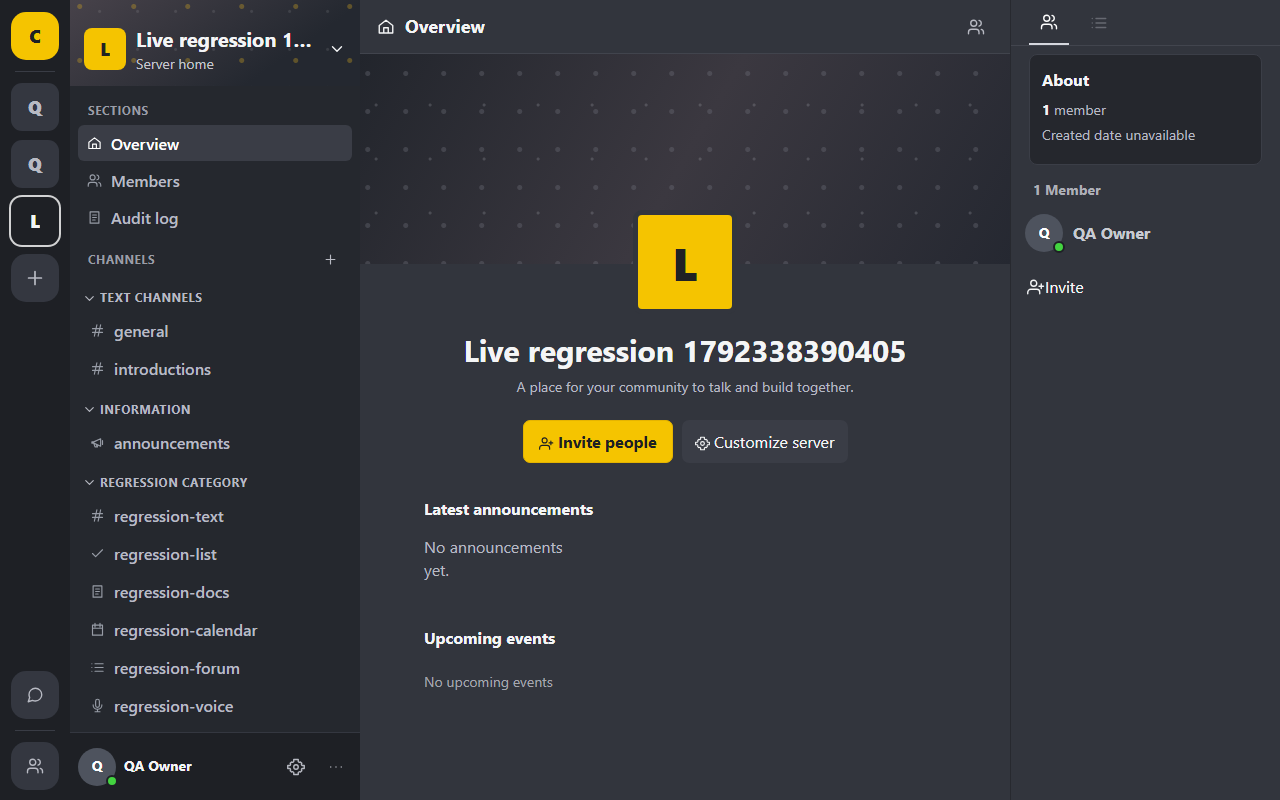
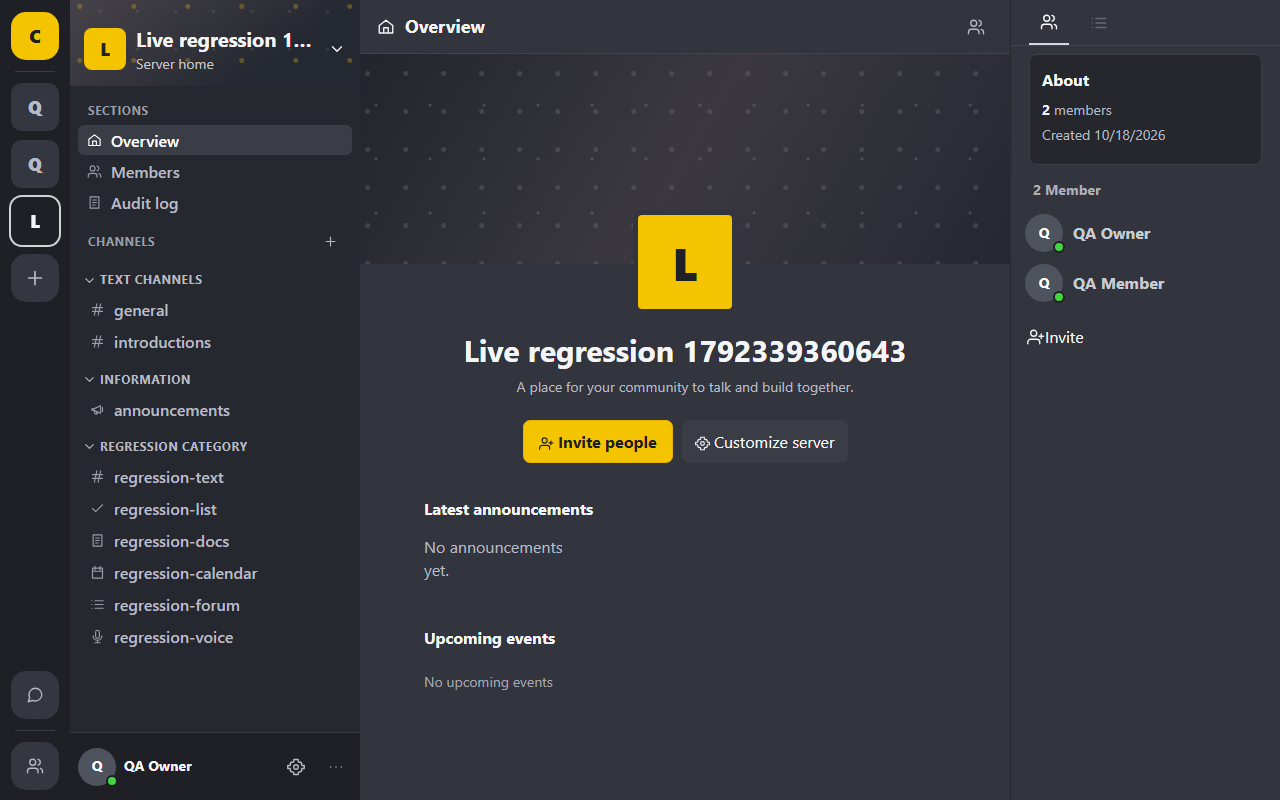
Refine live chat parity and regression checks

diff --git a/static/guilded.js b/static/guilded.js
@@ -214,6 +214,17 @@
         ? `<span class="role-emote" title="${escapeHtml(role.name)}">${escapeHtml(role.emoji)}</span>`
         : "";
   }
+  function memberStatus(member) {
+    const emoji = member?.custom_status_emoji || member?.status_emoji || "";
+    const text = member?.custom_status || "";
+    if (!emoji && !text) return "";
+    return `<small>${emoji ? `<span class="custom-status-emoji">${escapeHtml(emoji)}</span>` : ""}${text ? escapeHtml(text) : ""}</small>`;
+  }
+  function botBadge(member) {
+    return member?.is_bot === true || member?.isBot === true
+      ? '<span class="bot-badge">BOT</span>'
+      : "";
+  }
   function roleColor(role) {
     return /^#[0-9a-fA-F]{6}$/.test(role?.color || "") ? role.color : "#c8cbd2";
   }
@@ -423,7 +434,9 @@
     const groups = new Map();
     for (const member of members) {
       const role = topRole(member),
-        name = member.status === "invisible" ? "Offline" : role?.id || "Member";
+        name = ["invisible", "offline"].includes(member.status)
+          ? "Offline"
+          : role?.id || "Member";
       if (!groups.has(name)) groups.set(name, []);
       groups.get(name).push(member);
     }
@@ -437,7 +450,8 @@
           `<section class="member-group"><h2>${people.length} ${escapeHtml(roles.find((r) => r.id === id)?.name || id)}</h2>${people
             .map((member) => {
               const role = topRole(member);
-              return `<button class="member ${member.status === "invisible" ? "offline" : ""}" data-action="member" data-id="${member.id}"><span class="avatar-wrap">${avatar(member)}<i class="status-dot ${escapeHtml(member.status || "online")}"></i></span><span class="who"><strong><span style="${roleTextStyle(role)}">${escapeHtml(member.name || "Member")}</span> ${roleIcon(role)}</strong><small>${escapeHtml(member.custom_status || (member.status === "online" ? "" : member.status || ""))}</small></span></button>`;
+              const offline = ["invisible", "offline"].includes(member.status);
+              return `<button class="member ${offline ? "offline" : ""}" data-action="member" data-id="${member.id}"><span class="avatar-wrap">${avatar(member)}<i class="status-dot ${escapeHtml(member.status || "online")}"></i></span><span class="who"><strong><span style="${roleTextStyle(role)}">${escapeHtml(member.name || "Member")}</span>${roleIcon(role)}${botBadge(member)}</strong>${memberStatus(member)}</span></button>`;
             })
             .join("")}</section>`,
       ).join("")}<button class="member-invite" data-action="invite">${icon("invite")}<span>Invite</span></button></aside>`;
@@ -668,7 +682,8 @@
               : `<a class="file-chip" href="${attachmentURLs[a.id] || "#"}" target="_blank" rel="noreferrer">${escapeHtml(a.name)} · ${Math.ceil(a.size / 1024)} KB</a>`,
           )
           .join("");
-        return `${divider}<article class="message ${grouped ? "grouped" : ""}" data-message="${item.id}">${grouped ? '<span class="avatar-spacer"></span>' : avatar(user)}<div class="content">${grouped ? "" : `<span class="name" style="${roleTextStyle(role)}">${escapeHtml(user.name)}</span>${roleIcon(role)}<time>${new Date(item.created * 1000).toLocaleTimeString(undefined, { hour: "2-digit", minute: "2-digit" })}</time>`}${item.pinned ? ` <span class="pinned">${icon("pin", "sm")} Pinned</span>` : ""}<p>${escapeHtml(item.body)}</p>${attachments}${item.edited ? '<span class="edited">(edited)</span>' : ""}<div>${(item.reactions || []).map((reaction) => `<button class="reaction" data-action="reaction" data-id="${item.id}" data-emoji="${escapeHtml(reaction.emoji)}">${escapeHtml(reaction.emoji)} ${reaction.count}</button>`).join("")}</div></div><div class="msgtools"><button data-action="reaction-picker" data-id="${item.id}" title="React">${icon("smile", "sm")}</button><button data-action="reply" data-id="${item.id}" title="Reply">${icon("chat", "sm")}</button>${item.sender === state.user.id ? `<button data-action="edit-message" data-id="${item.id}" title="Edit">${icon("edit", "sm")}</button>` : ""}${cid && can("manage_messages") ? `<button data-action="pin" data-id="${item.id}" title="${item.pinned ? "Unpin" : "Pin"}">${icon("pin", "sm")}</button>` : ""}${item.sender === state.user.id || (cid && can("manage_messages")) ? `<button data-action="delete-message" data-id="${item.id}" title="Delete">${icon("trash", "sm")}</button>` : ""}<button data-action="message-menu" data-id="${item.id}" title="More message options">${icon("more", "sm")}</button></div></article>`;
+        const timeLabel = new Date(item.created * 1000).toLocaleTimeString(undefined, { hour: "2-digit", minute: "2-digit" });
+        return `${divider}<article class="message ${grouped ? "grouped" : ""}" data-message="${item.id}">${grouped ? '<span class="avatar-spacer"></span>' : avatar(user)}${grouped ? `<time class="group-timestamp" aria-label="${escapeHtml(timeLabel)}">${escapeHtml(timeLabel)}</time>` : ""}<div class="content">${grouped ? "" : `<span class="name" style="${roleTextStyle(role)}">${escapeHtml(user.name)}</span>${roleIcon(role)}${botBadge(user)}<time>${escapeHtml(timeLabel)}</time>`}${item.pinned ? ` <span class="pinned">${icon("pin", "sm")} Pinned</span>` : ""}<p>${escapeHtml(item.body)}</p>${attachments}${item.edited ? '<span class="edited">(edited)</span>' : ""}<div>${(item.reactions || []).map((reaction) => `<button class="reaction" data-action="reaction" data-id="${item.id}" data-emoji="${escapeHtml(reaction.emoji)}">${escapeHtml(reaction.emoji)} ${reaction.count}</button>`).join("")}</div></div><div class="msgtools"><button data-action="reaction-picker" data-id="${item.id}" title="React">${icon("smile", "sm")}</button><button data-action="reply" data-id="${item.id}" title="Reply">${icon("chat", "sm")}</button>${item.sender === state.user.id ? `<button data-action="edit-message" data-id="${item.id}" title="Edit">${icon("edit", "sm")}</button>` : ""}${cid && can("manage_messages") ? `<button data-action="pin" data-id="${item.id}" title="${item.pinned ? "Unpin" : "Pin"}">${icon("pin", "sm")}</button>` : ""}${item.sender === state.user.id || (cid && can("manage_messages")) ? `<button data-action="delete-message" data-id="${item.id}" title="Delete">${icon("trash", "sm")}</button>` : ""}<button data-action="message-menu" data-id="${item.id}" title="More message options">${icon("more", "sm")}</button></div></article>`;
       })
       .join(
         "",
@@ -892,6 +907,7 @@
         if (!cid) throw Error("No channel yet");
         dm = null;
         page = "chat";
+        $(".layout")?.classList.remove("shownav");
         closeModal();
         render();
         if (
@@ -907,6 +923,7 @@
         dm = person(id);
         sid = cid = null;
         page = "chat";
+        $(".layout")?.classList.remove("shownav");
         closeModal();
         render();
         await loadMessages();
@@ -1675,6 +1692,8 @@
       items = [
         { label: "React", action: "reaction-picker", icon: "smile", id },
         { label: "Reply", action: "reply", icon: "chat", id },
+        { label: "Share message", action: "share-message", icon: "copy", id },
+        { label: "Copy link", action: "copy-message-link", icon: "copy", id },
       ];
       if (message && message.sender !== state.user.id && cid)
         items.push({ label: "Report message", action: "report-message", icon: "shield", id });

diff --git a/static/guilded-reference.css b/static/guilded-reference.css
@@ -17,7 +17,7 @@ html,body{font:16px/1.45 Inter,"Segoe UI",Arial,sans-serif}
 .sidebar-search{display:none}
 .nav{padding:4px 8px 18px}
 .nav-heading{padding:12px 10px 5px;font-size:12px;letter-spacing:.04em}
-.nav-item,.channel{min-height:36px;margin:1px 0;padding:5px 9px;border-radius:6px;font-size:16px;font-weight:500;color:#b9bbc4}
+.nav-item,.channel{min-height:30px;margin:1px 0;padding:3px 9px;border-radius:6px;font-size:16px;font-weight:500;color:#b9bbc4}
 .nav-item{gap:9px}
 .channel{padding-left:12px}
 .nav-item.active,.channel.active{background:#3a3d46}
@@ -50,6 +50,8 @@ html,body{font:16px/1.45 Inter,"Segoe UI",Arial,sans-serif}
 .message time{font-size:12px}
 .message p{font-size:16px;line-height:1.45}
 .message.grouped{padding-top:2px}
+.message .group-timestamp{position:absolute;left:10px;top:5px;width:40px;text-align:center;color:#9a9da6;font-size:10px;opacity:0;pointer-events:none}
+.message.grouped:hover .group-timestamp,.message.grouped:focus-within .group-timestamp{opacity:1}
 .message .avatar-spacer{width:40px;height:1px;flex:none}
 .message.grouped .content>p:first-child{margin-top:0}
 .msgtools{position:absolute;z-index:3;top:-17px;right:7px;display:flex;gap:2px;padding:4px;background:#292c33;border:1px solid #494c55;border-radius:7px;box-shadow:0 5px 15px #0005;opacity:0;pointer-events:none;transform:translateY(2px);transition:opacity .12s,transform .12s}
@@ -72,6 +74,9 @@ html,body{font:16px/1.45 Inter,"Segoe UI",Arial,sans-serif}
 .member .avatar{width:38px;height:38px;border-radius:50%}
 .member .who strong{font-size:14px}
 .member .who small{font-size:12px;color:#a6a8b0}
+.member .custom-status-emoji{margin-right:4px}
+.status-dot.offline{background:#8d9199}
+.bot-badge{display:inline-flex;align-items:center;margin-left:5px;padding:1px 4px;border-radius:3px;background:#6a6d78;color:#fff;font-size:9px;font-weight:800;line-height:1.25;vertical-align:2px}
 .overview-banner{height:210px;background-image:radial-gradient(circle at 15% 25%,#73758055 0 2px,transparent 3px),radial-gradient(circle at 78% 50%,#c5c8d033 0 1px,transparent 2px),linear-gradient(120deg,#22252c,#3b3840,#252831);background-size:38px 38px,54px 54px,auto}
 .overview-body{max-width:none;margin:-54px auto 0;padding:0 clamp(22px,5vw,72px) 48px}
 .overview-avatar{width:104px;height:104px;border-radius:9px;font-size:46px}

diff --git a/PROGRESS.md b/PROGRESS.md
@@ -47,3 +47,4 @@
 - New session STEP 0: BLOCKED-EXTERNAL — no SUPABASE_DB_URL or SUPABASE_ACCESS_TOKEN; CLI can list the linked healthy project, but migration list and dry-run push both stall at “Initialising login role...” and were stopped; no migrations applied.
 - Latest STEP 0: BLOCKED-EXTERNAL — .env is ignored and absent from Git history; Node/pg connection attempt timed out before select version() completed; no migrations or live tests run.
 - STEP 1: PARTIAL — removed the simulated staff panel and fixed counters; dashboard reads staff_action('dashboard'), and missing responses show unavailable rather than fabricated zeros; real anonymous /admin route passed at 1280/390, but signed-in live counts were not exercised.
+- E2E continuation: PARTIAL — live QA-owner/member passed server/category/channel, chat grouping/date/hover/right-click, LIST/DOCS/CALENDAR/FORUM, presence-only VOICE, overview/date/event, and empty-console checks at desktop/mobile; attachment Storage insert is rejected because authenticated lacks EXECUTE on app_access; durable replies/threads and live staff dashboard remain unfinished; DB connection timed out and Supabase dashboard is signed out.
